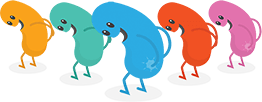
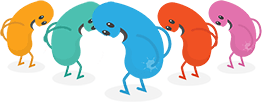
latest code for boohiss - bumSingle image changed to reflect two reversed bums

Changed region(s): [[0.0, 0.0, 0.4275, 0.7941], [0.7939, 0.3529, 0.8244, 0.3824]]

diff --git a/Animations/BooHiss/Bum.html b/Animations/BooHiss/Bum.html
@@ -255,15 +255,23 @@ window.requestAnimFrame = (function(){
         var preloader = o.preloader || new Object(), pixelRatio = o.pixelRatio || 1;
 
         var stageAudio = preloader.publicAudios[0],
-                imageAsset = preloader.publicImages[0],
-                imageAssetTwo = preloader.publicImages[1],
-                imageAssetThree = preloader.publicImages[2],
-                imageAssetFour = preloader.publicImages[3],
-                imageAssetFive = preloader.publicImages[4],
+                imageAsset ,
+                imageAssetTwo ,
+                imageAssetThree ,
+                imageAssetFour ,
+                imageAssetFive,
                 tick = 0,
                 canvasMidX, canvasMidY;
 
         var lastUpdateTime = 0, acDelta = 0, msPerFrame = 30;
+
+        $.each(preloader.publicImages, function(i) {
+            if (this.id === "BooHissImgOne") imageAsset = preloader.publicImages[i];
+            if (this.id === "BooHissImgFive") imageAssetTwo = preloader.publicImages[i];
+            if (this.id === "BooHissImgTwo") imageAssetThree = preloader.publicImages[i];
+            if (this.id === "BooHissImgFour") imageAssetFour = preloader.publicImages[i];
+            if (this.id === "BooHissImgThree") imageAssetFive = preloader.publicImages[i];
+        });
 
         this.load = function() {
             if (navigator.userAgent.toLowerCase().indexOf('msie') === -1) {
@@ -479,10 +487,10 @@ window.requestAnimFrame = (function(){
                 ],
                 audios:[
                     {audio: [
-                        {audioSrc:"http://media.parlingo.com/website/live/messagepacks/plaudits/audio/Plaudit5Audio.ogg", audioType:"ogg"},
-                        {audioSrc:"http://media.parlingo.com/website/live/messagepacks/plaudits/audio/Plaudit5Audio.mp3", audioType:"mp3"},
-                        {audioSrc:"http://media.parlingo.com/website/live/messagepacks/plaudits/audio/Plaudit5Audio.m4a", audioType:"m4a"},
-                        {audioSrc:"http://media.parlingo.com/website/live/messagepacks/plaudits/audio/Plaudit5Audio.wav", audioType:"wav"}
+                        {audioSrc:"http://media.parlingo.com/website/live/messagepacks/boohiss/audio/bum.ogg", audioType:"ogg"},
+                        {audioSrc:"http://media.parlingo.com/website/live/messagepacks/boohiss/audio/bum.mp3", audioType:"mp3"},
+                        {audioSrc:"http://media.parlingo.com/website/live/messagepacks/boohiss/audio/bum.m4a", audioType:"m4a"},
+                        {audioSrc:"http://media.parlingo.com/website/live/messagepacks/boohiss/audio/bum.wav", audioType:"wav"}
                     ]
                     }
                 ]

diff --git a/Animations/BooHiss/Point.html b/Animations/BooHiss/Point.html
@@ -255,11 +255,17 @@ window.requestAnimFrame = (function(){
         var preloader = o.preloader || new Object(), pixelRatio = o.pixelRatio || 1;
 
         var stageAudio = preloader.publicAudios[0],
-                imageAsset = preloader.publicImages[0],
-                imageAssetTwo = preloader.publicImages[1],
-                imageAssetThree = preloader.publicImages[2],
-                tick = 0,
-                canvasMidX, canvasMidY;
+            imageAsset,
+            imageAssetTwo,
+            imageAssetThree,
+            tick = 0,
+            canvasMidX, canvasMidY;
+
+        $.each(preloader.publicImages, function(i) {
+            if (this.id === "BooHissImg1") imageAsset = preloader.publicImages[i];
+            if (this.id === "BooHissImg2") imageAssetTwo = preloader.publicImages[i];
+            if (this.id === "BooHissImg3") imageAssetThree = preloader.publicImages[i];
+        });
 
         var lastUpdateTime = 0, acDelta = 0, msPerFrame = 30;
 
@@ -450,10 +456,10 @@ window.requestAnimFrame = (function(){
                 ],
                 audios:[
                     {audio: [
-                        {audioSrc:"http://media.parlingo.com/website/live/messagepacks/plaudits/audio/Plaudit5Audio.ogg", audioType:"ogg"},
-                        {audioSrc:"http://media.parlingo.com/website/live/messagepacks/plaudits/audio/Plaudit5Audio.mp3", audioType:"mp3"},
-                        {audioSrc:"http://media.parlingo.com/website/live/messagepacks/plaudits/audio/Plaudit5Audio.m4a", audioType:"m4a"},
-                        {audioSrc:"http://media.parlingo.com/website/live/messagepacks/plaudits/audio/Plaudit5Audio.wav", audioType:"wav"}
+                        {audioSrc:"http://media.parlingo.com/website/live/messagepacks/boohiss/audio/point.ogg", audioType:"ogg"},
+                        {audioSrc:"http://media.parlingo.com/website/live/messagepacks/boohiss/audio/point.mp3", audioType:"mp3"},
+                        {audioSrc:"http://media.parlingo.com/website/live/messagepacks/boohiss/audio/point.m4a", audioType:"m4a"},
+                        {audioSrc:"http://media.parlingo.com/website/live/messagepacks/boohiss/audio/point.wav", audioType:"wav"}
                     ]
                     }
                 ]

diff --git a/Animations/BooHiss/FunnyFace.html b/Animations/BooHiss/FunnyFace.html
@@ -424,10 +424,10 @@ window.requestAnimFrame = (function(){
                 ],
                 audios:[
                     {audio: [
-                        {audioSrc:"http://media.parlingo.com/website/live/messagepacks/plaudits/audio/Plaudit5Audio.ogg", audioType:"ogg"},
-                        {audioSrc:"http://media.parlingo.com/website/live/messagepacks/plaudits/audio/Plaudit5Audio.mp3", audioType:"mp3"},
-                        {audioSrc:"http://media.parlingo.com/website/live/messagepacks/plaudits/audio/Plaudit5Audio.m4a", audioType:"m4a"},
-                        {audioSrc:"http://media.parlingo.com/website/live/messagepacks/plaudits/audio/Plaudit5Audio.wav", audioType:"wav"}
+                        {audioSrc:"http://media.parlingo.com/website/live/messagepacks/boohiss/audio/funnyface.ogg", audioType:"ogg"},
+                        {audioSrc:"http://media.parlingo.com/website/live/messagepacks/boohiss/audio/funnyface.mp3", audioType:"mp3"},
+                        {audioSrc:"http://media.parlingo.com/website/live/messagepacks/boohiss/audio/funnyface.m4a", audioType:"m4a"},
+                        {audioSrc:"http://media.parlingo.com/website/live/messagepacks/boohiss/audio/funnyface.wav", audioType:"wav"}
                     ]
                     }
                 ]

diff --git a/Animations/BooHiss/Raspberry.html b/Animations/BooHiss/Raspberry.html
@@ -424,10 +424,10 @@ window.requestAnimFrame = (function(){
                 ],
                 audios:[
                     {audio: [
-                        {audioSrc:"http://media.parlingo.com/website/live/messagepacks/plaudits/audio/Plaudit5Audio.ogg", audioType:"ogg"},
-                        {audioSrc:"http://media.parlingo.com/website/live/messagepacks/plaudits/audio/Plaudit5Audio.mp3", audioType:"mp3"},
-                        {audioSrc:"http://media.parlingo.com/website/live/messagepacks/plaudits/audio/Plaudit5Audio.m4a", audioType:"m4a"},
-                        {audioSrc:"http://media.parlingo.com/website/live/messagepacks/plaudits/audio/Plaudit5Audio.wav", audioType:"wav"}
+                        {audioSrc:"http://media.parlingo.com/website/live/messagepacks/boohiss/audio/raspberry.ogg", audioType:"ogg"},
+                        {audioSrc:"http://media.parlingo.com/website/live/messagepacks/boohiss/audio/raspberry.mp3", audioType:"mp3"},
+                        {audioSrc:"http://media.parlingo.com/website/live/messagepacks/boohiss/audio/raspberry.m4a", audioType:"m4a"},
+                        {audioSrc:"http://media.parlingo.com/website/live/messagepacks/boohiss/audio/raspberry.wav", audioType:"wav"}
                     ]
                     }
                 ]

diff --git a/Animations/BooHiss/Looser.html b/Animations/BooHiss/Looser.html
@@ -424,10 +424,10 @@ window.requestAnimFrame = (function(){
                 ],
                 audios:[
                     {audio: [
-                        {audioSrc:"http://media.parlingo.com/website/live/messagepacks/plaudits/audio/Plaudit5Audio.ogg", audioType:"ogg"},
-                        {audioSrc:"http://media.parlingo.com/website/live/messagepacks/plaudits/audio/Plaudit5Audio.mp3", audioType:"mp3"},
-                        {audioSrc:"http://media.parlingo.com/website/live/messagepacks/plaudits/audio/Plaudit5Audio.m4a", audioType:"m4a"},
-                        {audioSrc:"http://media.parlingo.com/website/live/messagepacks/plaudits/audio/Plaudit5Audio.wav", audioType:"wav"}
+                        {audioSrc:"http://media.parlingo.com/website/live/messagepacks/boohiss/audio/looser.ogg", audioType:"ogg"},
+                        {audioSrc:"http://media.parlingo.com/website/live/messagepacks/boohiss/audio/looser.mp3", audioType:"mp3"},
+                        {audioSrc:"http://media.parlingo.com/website/live/messagepacks/boohiss/audio/looser.m4a", audioType:"m4a"},
+                        {audioSrc:"http://media.parlingo.com/website/live/messagepacks/boohiss/audio/looser.wav", audioType:"wav"}
                     ]
                     }
                 ]

diff --git a/Animations/BooHiss/Duh.html b/Animations/BooHiss/Duh.html
@@ -424,10 +424,10 @@ window.requestAnimFrame = (function(){
                 ],
                 audios:[
                     {audio: [
-                        {audioSrc:"http://media.parlingo.com/website/live/messagepacks/plaudits/audio/Plaudit5Audio.ogg", audioType:"ogg"},
-                        {audioSrc:"http://media.parlingo.com/website/live/messagepacks/plaudits/audio/Plaudit5Audio.mp3", audioType:"mp3"},
-                        {audioSrc:"http://media.parlingo.com/website/live/messagepacks/plaudits/audio/Plaudit5Audio.m4a", audioType:"m4a"},
-                        {audioSrc:"http://media.parlingo.com/website/live/messagepacks/plaudits/audio/Plaudit5Audio.wav", audioType:"wav"}
+                        {audioSrc:"http://media.parlingo.com/website/live/messagepacks/boohiss/audio/duh.ogg", audioType:"ogg"},
+                        {audioSrc:"http://media.parlingo.com/website/live/messagepacks/boohiss/audio/duh.mp3", audioType:"mp3"},
+                        {audioSrc:"http://media.parlingo.com/website/live/messagepacks/boohiss/audio/duh.m4a", audioType:"m4a"},
+                        {audioSrc:"http://media.parlingo.com/website/live/messagepacks/boohiss/audio/duh.wav", audioType:"wav"}
                     ]
                     }
                 ]
